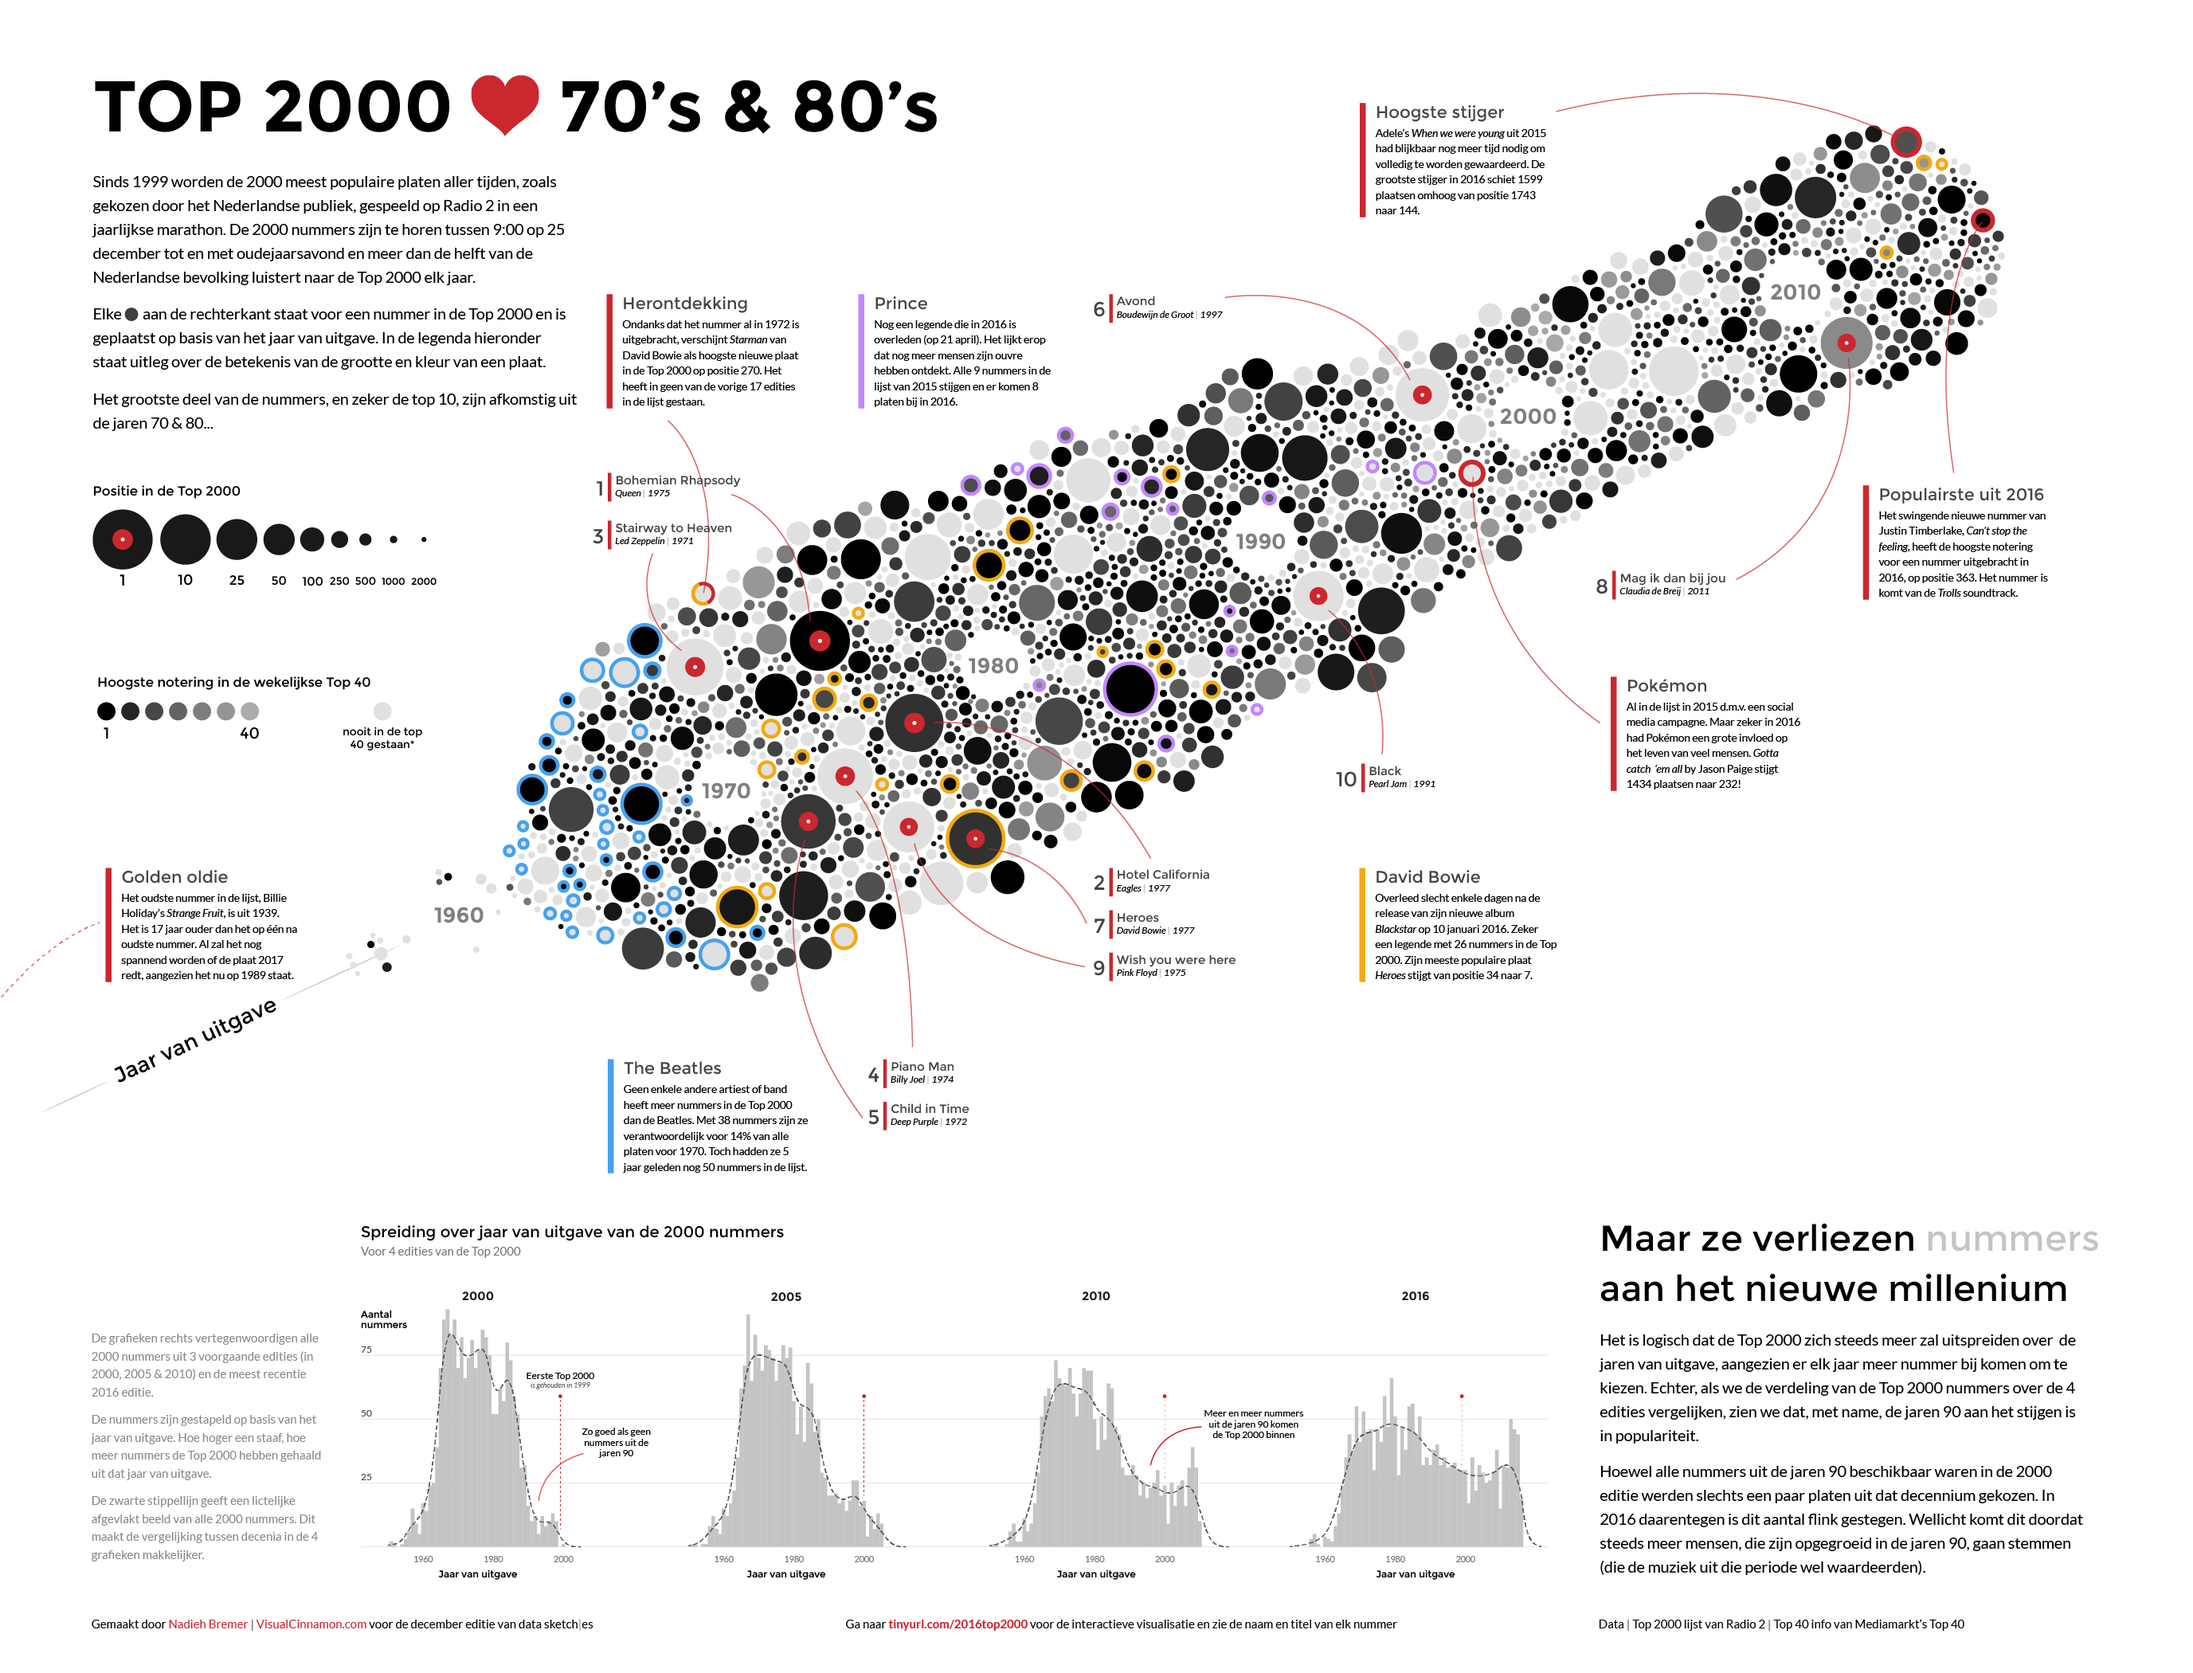
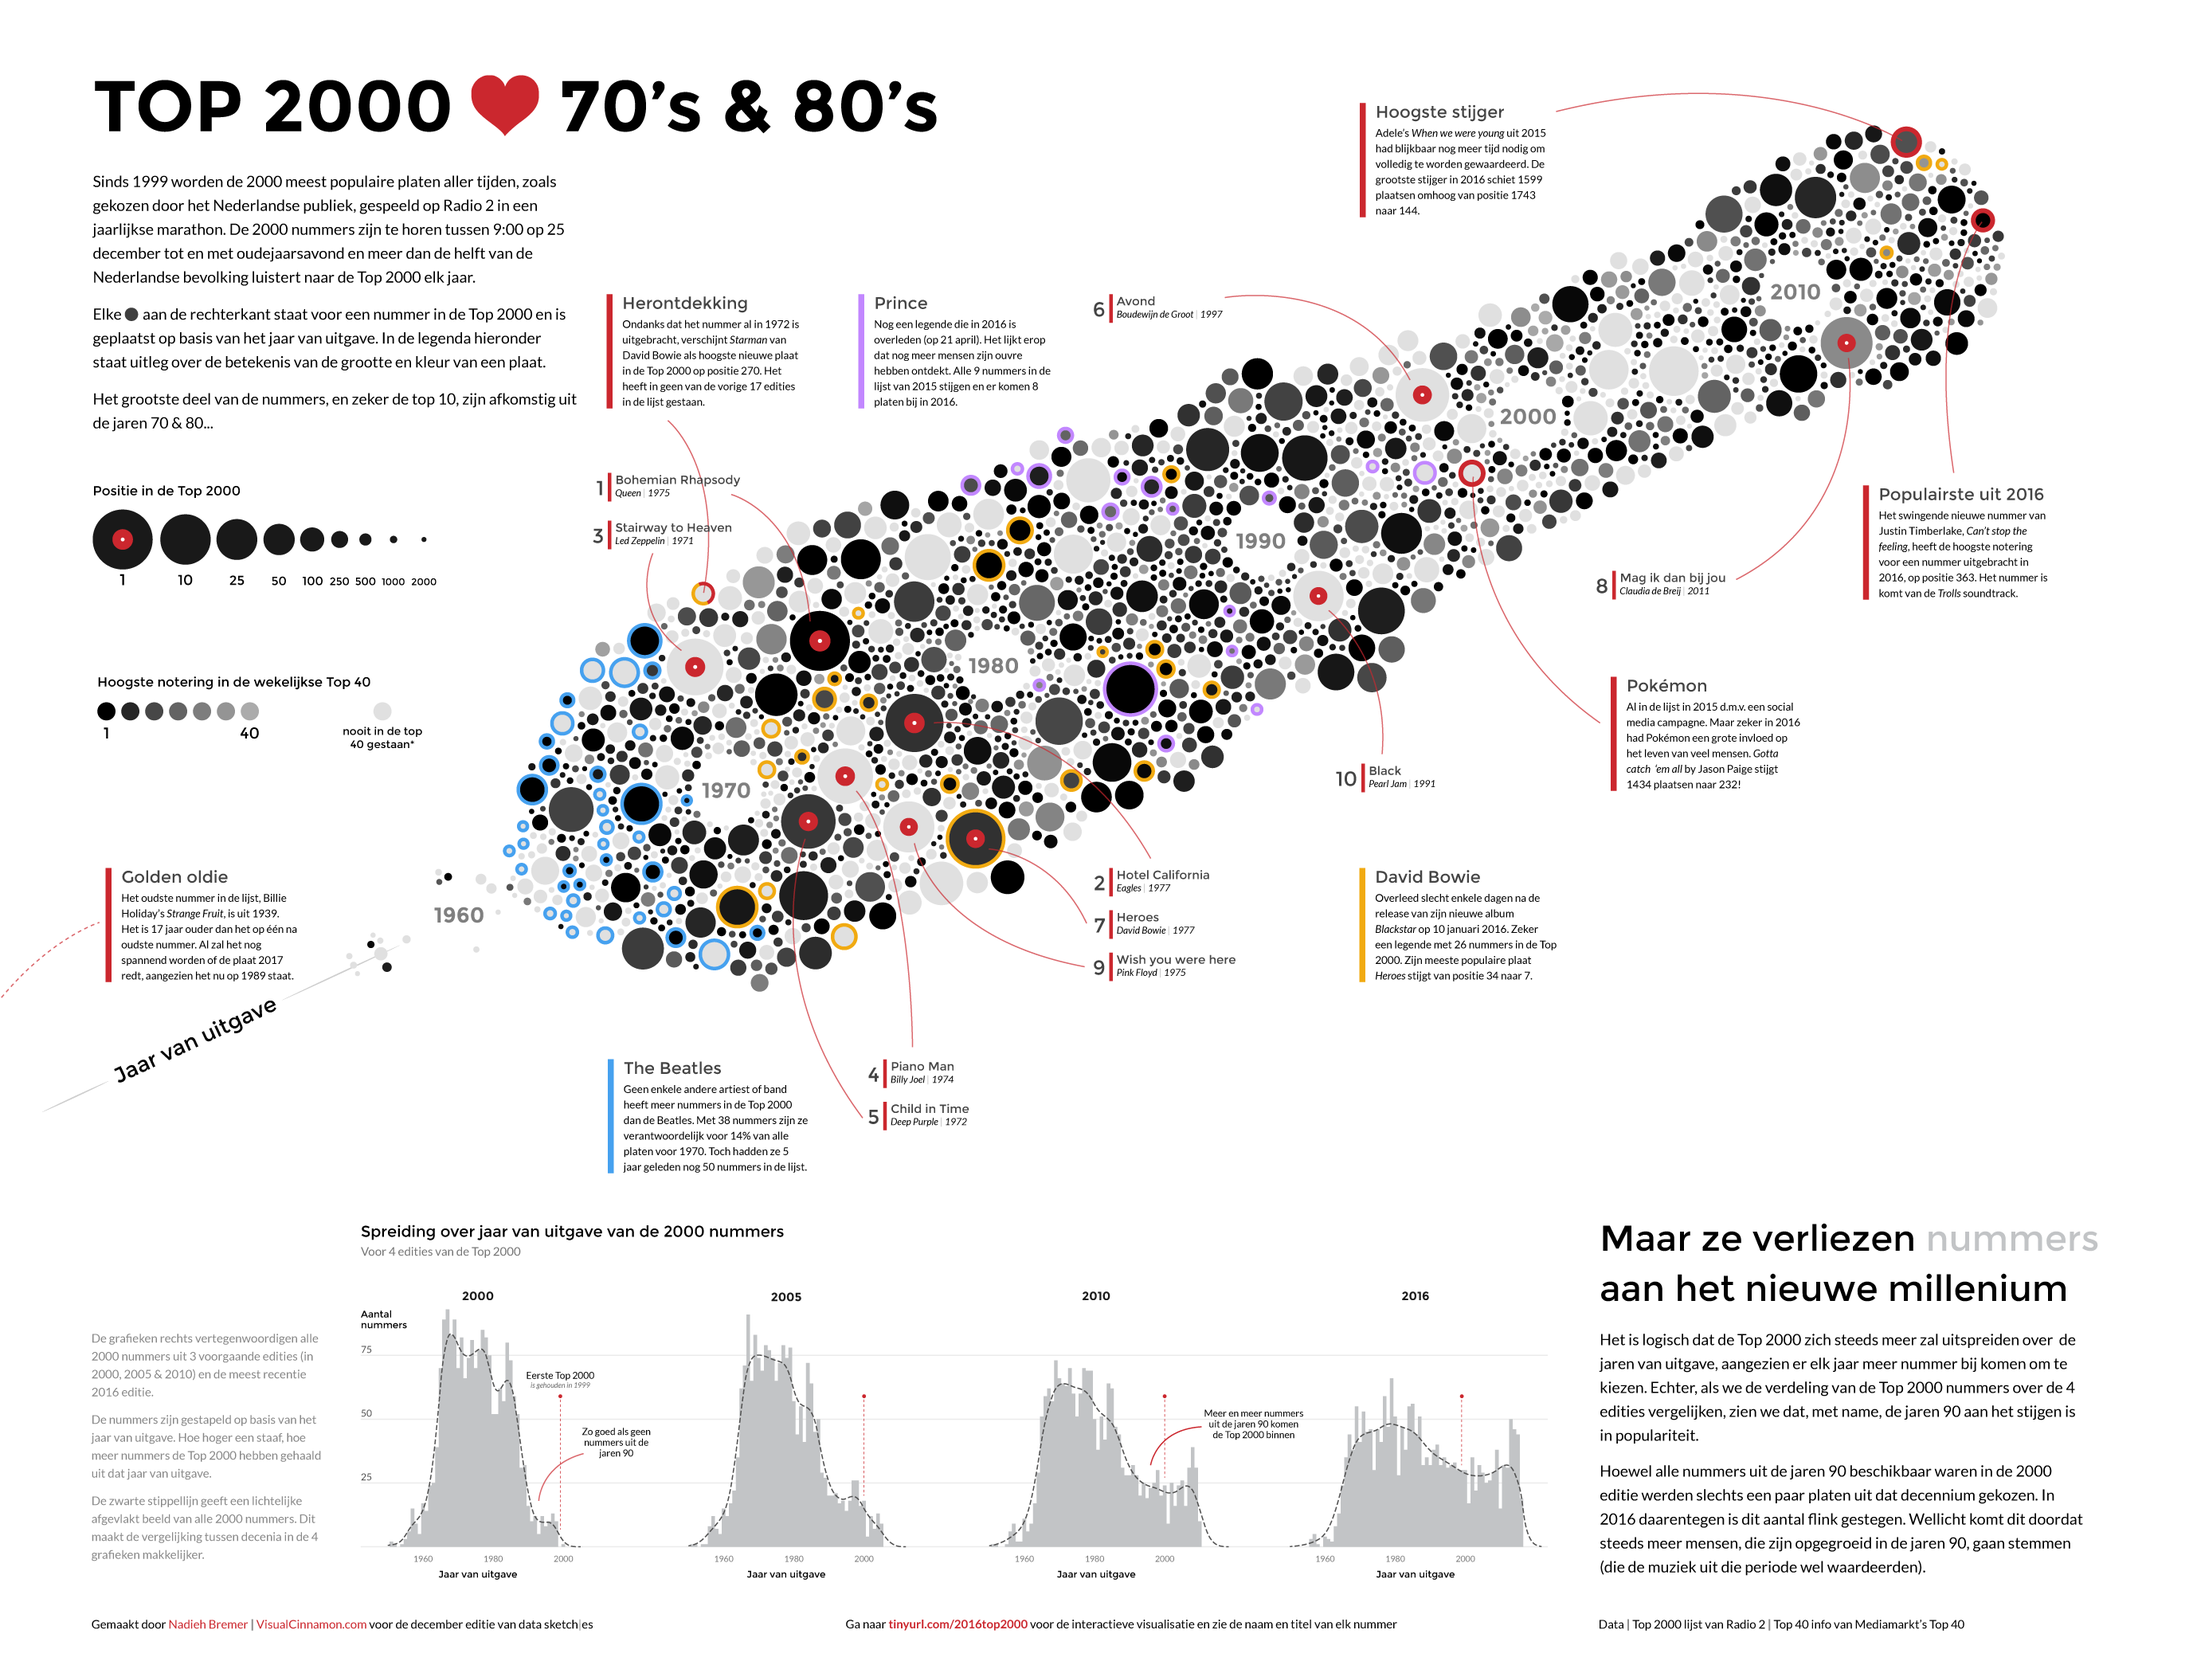
Updated position of the December visual

diff --git a/december/code/nadieh/js/main.js b/december/code/nadieh/js/main.js
@@ -1,4 +1,3 @@
-console.log(window.screen.width)
 var isMobile = window.screen.width < 400 ? true : false;
 
 if(isMobile) {
@@ -13,13 +12,14 @@ if(isMobile) {
 	//////////////////////////// Set up the SVG ///////////////////////////////
 	///////////////////////////////////////////////////////////////////////////
 	var margin = {
-	  top: 0,
+	  top: 120,
 	  right: 150,
 	  bottom: 0,
-	  left: 100
+	  left: -350
 	};
-	var width = 2150 - margin.left - margin.right;
-	var height = 500 - margin.top - margin.bottom;
+	var widthOriginal = 2150 - 100 - 150;
+	var width = 1700 - margin.left - margin.right;
+	var height = 620 - margin.top - margin.bottom;
 		
 	//SVG container
 	var svg = d3.select('#chart')
@@ -35,7 +35,7 @@ if(isMobile) {
 
 	var yearScale = d3.scaleLinear()
 		.domain([1939, 2016])
-	    .range([0, width]);
+	    .range([0, widthOriginal]);
 		
 	var rScale = d3.scaleSqrt()
 		.domain([1,10,25,50,100,250,500,1000,2000])
@@ -257,7 +257,7 @@ if(isMobile) {
 
 		var sizeLegend = svg.append("g")
 			.attr("class", "size-legend")
-			.attr("transform", "translate(" + -35 + "," + 80 + ")");
+			.attr("transform", "translate(" + 415 + "," + -40 + ")");
 
 		sizeLegend.append("text")
 			.attr("class", "legend-title")
@@ -301,7 +301,7 @@ if(isMobile) {
 
 		var colorLegend = svg.append("g")
 			.attr("class", "color-legend")
-			.attr("transform", "translate(" + 320 + "," + 80 + ")");
+			.attr("transform", "translate(" + 790 + "," + -40 + ")");
 
 		colorLegend.append("text")
 			.attr("class", "legend-title")

diff --git a/december/code/nadieh/css/style.css b/december/code/nadieh/css/style.css
@@ -47,7 +47,7 @@ a.image-link {
 
 #intro p {
 	margin-top: 0px;
-	max-width: 600px;
+	max-width: 800px;
 	line-height: 160%
 }
 
